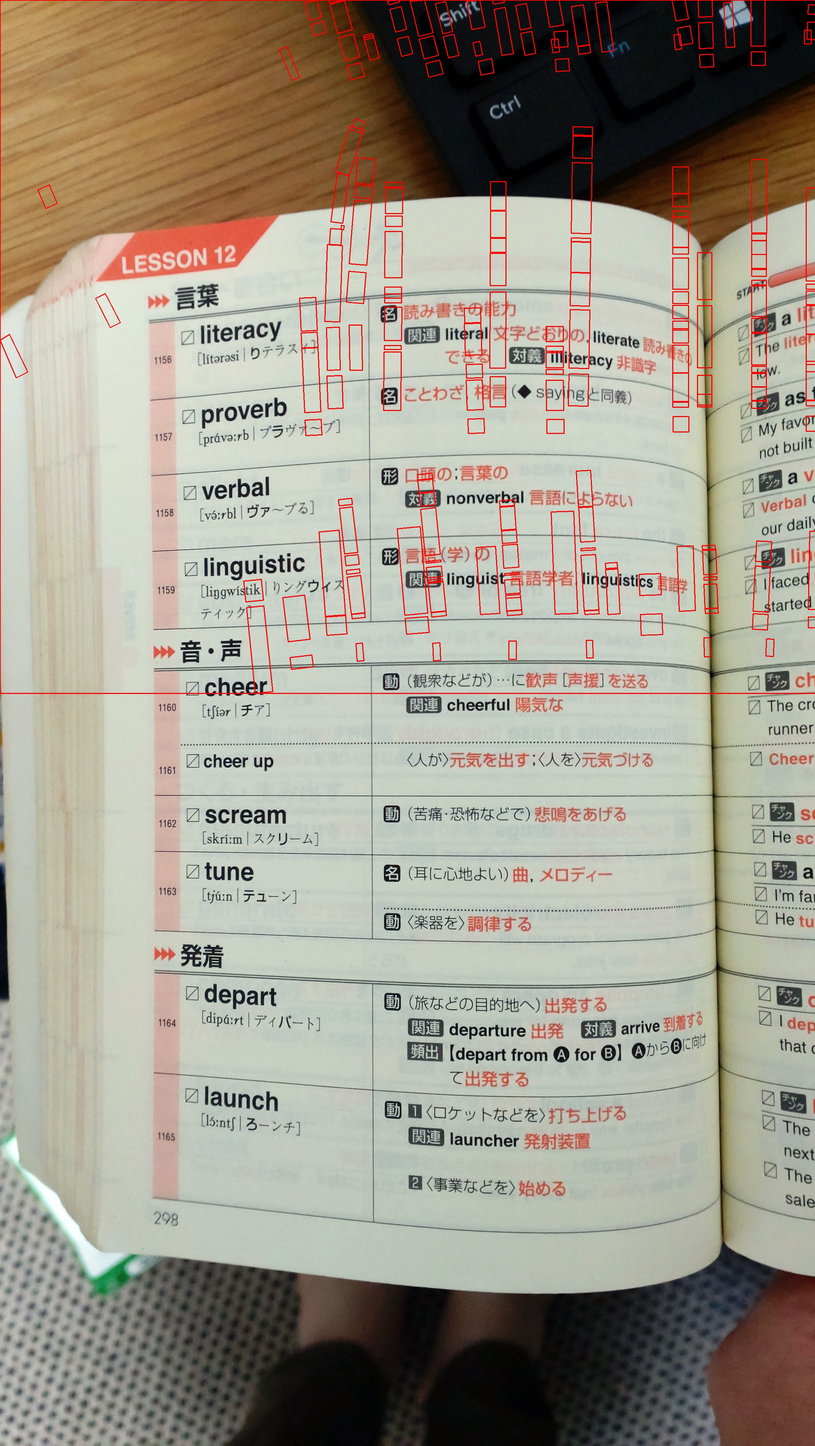
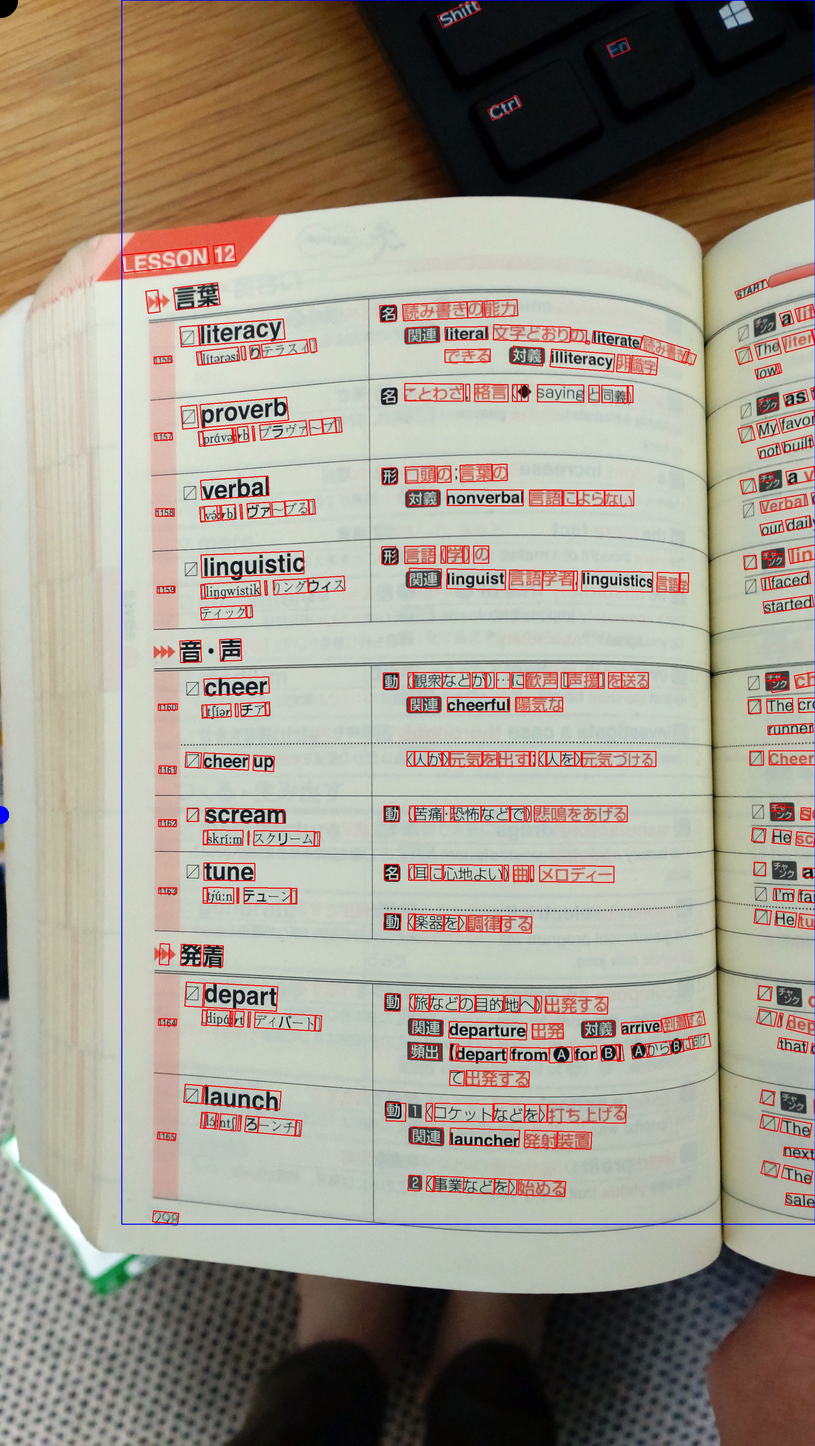
fix: 正しい座標に描画出来るようにした

diff --git a/OCR/api-test.py b/OCR/api-test.py
@@ -42,25 +42,46 @@ def detect_text(image_path):
 # 結果をもとに各領域を赤枠で囲う
 def draw_text_area(image_path, response):
     image = cv2.imread(image_path)
+    original_height, original_width = image.shape[:2]
+
     for text in response.text_annotations:
         vertices = text.bounding_poly.vertices
-        # すべての座標を時計回りに90度回転させる
-        points = [(vertex.y, vertex.x) for vertex in vertices if vertex.x is not None and vertex.y is not None]
+        # 座標変換：Cloud Vision (右上原点) -> OpenCV (左上原点)
+        points = [
+            (int(original_width-vertex.y), int(vertex.x))  # Y 座標を反転
+            for vertex in vertices if vertex.x is not None and vertex.y is not None
+        ]
+
+        # 頂点の順序を修正して回転を正す←いらなくね？
         if len(points) == 4:
-            cv2.polylines(image, [np.array(points, dtype=np.int32)], isClosed=True, color=(0, 0, 255), thickness=2)
+            cv2.polylines(image, [np.array(points, dtype=np.int32)], isClosed=True, color=(0, 0, 255), thickness=2) # 赤枠
         else:
             print("頂点数が不足しているためスキップしました:", points)
     
+    # 原点に黒丸を描画　50pxくらいの大きさ
+    cv2.circle(image, (0, 0), 50, (0, 0, 0), thickness=-1)
+
     # 一番大きい領域を青枠で囲う
     if len(response.text_annotations) > 0:
         vertices = response.text_annotations[0].bounding_poly.vertices
-        points = [(vertex.y, vertex.x) for vertex in vertices if vertex.x is not None and vertex.y is not None]
+        points = [
+            (int(original_width-vertex.y), int(vertex.x))  # Y 座標を反転
+            for vertex in vertices if vertex.x is not None and vertex.y is not None
+        ]
+
+        # points[0]に青丸を描画
+        cv2.circle(image, (points[0][1], points[0][0]), 25, (255, 0, 0), thickness=-1)
+
         if len(points) == 4:
-            cv2.polylines(image, [np.array(points, dtype=np.int32)], isClosed=True, color=(255, 0, 0), thickness=2)
+            cv2.polylines(image, [np.array(points, dtype=np.int32)], isClosed=True, color=(255, 0, 0), thickness=2)  # 青枠
         else:
             print("頂点数が不足しているためスキップしました:", points)
+
     cv2.imwrite('text_area.jpg', image)
     print("テキスト領域をtext_area.jpgに保存しました。")
+
+
+
 
 # テキスト検出
 image_path = r".\samples\DSC_1937.JPG"
